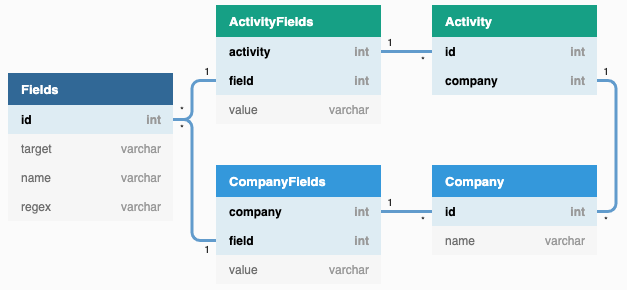
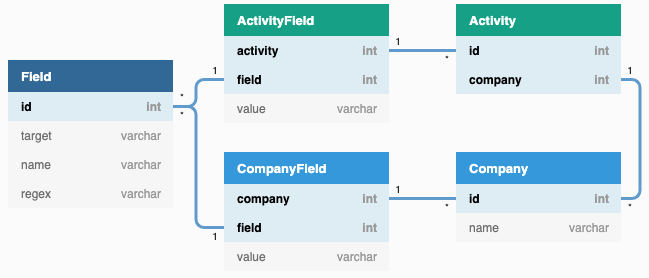
Fixed standards

diff --git a/docs/database.md b/docs/database.md
@@ -1,21 +1,26 @@
-# Database
-
-## Modello Entità-Relazione
+# Modello Entità-Relazione
 
 ![Modello ER](img/er_model.png)
 
 Il database è stato progettato in modo di essere il più possibile flessibile e di poter cambiare ogni singolo campo a proprio piacimento, mantenendo però l'integrità semantica dei dati.
 
-## Modello Logico
+# Modello Logico
 
-### Company
+## Company
 
 | Campo  | Descrizione |
 | ------ | ----------- |
 | `id`   | Un ID associato ad ogni azienda. Servirà da chiave primaria e sarà un intero. Le aziende vengono identificate da questo ID e non dal loro nome per essere coerenti con il resto delle entità. |
-| `name` | Il nome dell'azienda. È inserito nella tabella `Company` e non nella tabella `CompanyFields` perché è l'unico campo obbligatorio e che non può essere nullo. |
+| `name` | Il nome dell'azienda. È inserito nella tabella `Company` e non nella tabella `CompanyField` perché è l'unico campo obbligatorio e che non può essere nullo. |
 
-### Fields
+## Activity
+
+|   Campo   | Descrizione |
+| --------- | ----------- |
+| `id`      | Un ID associato ad ogni attività. |
+| `company` | L'ID dell'azienda che ha svolto questa attività. |
+
+## Field
 
 |  Campo   | Descrizione |
 | -------- | ----------- |
@@ -26,31 +31,25 @@ Il database è stato progettato in modo di essere il più possibile flessibile e
 
 Questa tabella è necessaria per garantire un'integrità semantica non presente in un database SQL. Si possono inserire nuovi campi a proprio piacimento, con una sintassi inventata, senza modificare la struttura del database. Tutti i controlli verranno fatti a livello applicativo.
 
-### CompanyFields
+## CompanyField
 
 |   Campo   | Descrizione |
 | --------- | ----------- |
 | `company` | L'ID dell'azienda a cui appartiene il campo. Chiave esterna a `Company(id)`. |
-|  `field`  | L'ID del tipo di campo in questione. Chiave esterna a `Fields(id)`.
+|  `field`  | L'ID del tipo di campo in questione. Chiave esterna a `Field(id)`.
 |  `value`  | Il valore del campo. |
 
-### Activity
-
-|   Campo   | Descrizione |
-| --------- | ----------- |
-| `id`      | Un ID associato ad ogni attività. |
-| `company` | L'ID dell'azienda che ha svolto questa attività. |
-
-### ActivityFields
+## ActivityField
 
 |   Campo   | Descrizione |
 | --------- | ----------- |
 | `activity` | L'ID dell'attività a cui appartiene il campo. Chiave esterna a `Activity(id)`. |
-|  `field`  | L'ID del tipo di campo in questione. Chiave esterna a `Fields(id)`.
+|  `field`  | L'ID del tipo di campo in questione. Chiave esterna a `Field(id)`.
 |  `value`  | Il valore del campo. |
 
-## Modello Fisico
+# Modello Fisico
 
+## Company
 ```SQL
 CREATE TABLE Company (
   id INT AUTO_INCREMENT,
@@ -58,25 +57,8 @@ CREATE TABLE Company (
   PRIMARY KEY(id)
 )
 ```
-```SQL
-CREATE TABLE Fields (
-  id INT AUTO_INCREMENT,
-  target VARCHAR(128),
-  name VARCHAR(128),
-  regex VARCHAR(256),
-  PRIMARY KEY(id)
-)
-```
-```SQL
-CREATE TABLE CompanyFields (
-  company INT,
-  field INT,
-  value VARCHAR(128),
-  PRIMARY KEY(company, field),
-  FOREIGN KEY (company) REFERENCES Company(id),
-  FOREIGN KEY (field) REFERENCES Fields(id)
-)
-```
+
+## Activity
 ```SQL
 CREATE TABLE Activity (
   id INT AUTO_INCREMENT,
@@ -86,13 +68,38 @@ CREATE TABLE Activity (
   FOREIGN KEY (company) REFERENCES Company(id)
 )
 ```
+
+## Field
 ```SQL
-CREATE TABLE ActivityFields (
+CREATE TABLE Field (
+  id INT AUTO_INCREMENT,
+  target VARCHAR(128),
+  name VARCHAR(128),
+  regex VARCHAR(256),
+  PRIMARY KEY(id)
+)
+```
+
+## CompanyField
+```SQL
+CREATE TABLE CompanyField (
+  company INT,
+  field INT,
+  value VARCHAR(128),
+  PRIMARY KEY(company, field),
+  FOREIGN KEY (company) REFERENCES Company(id),
+  FOREIGN KEY (field) REFERENCES Field(id)
+)
+```
+
+## ActivityField
+```SQL
+CREATE TABLE ActivityField (
   activity INT,
   field INT,
   value VARCHAR(128),
   PRIMARY KEY(activity, field),
   FOREIGN KEY (activity) REFERENCES Activity(id),
-  FOREIGN KEY (field) REFERENCES Fields(id)
+  FOREIGN KEY (field) REFERENCES Field(id)
 )
 ```
